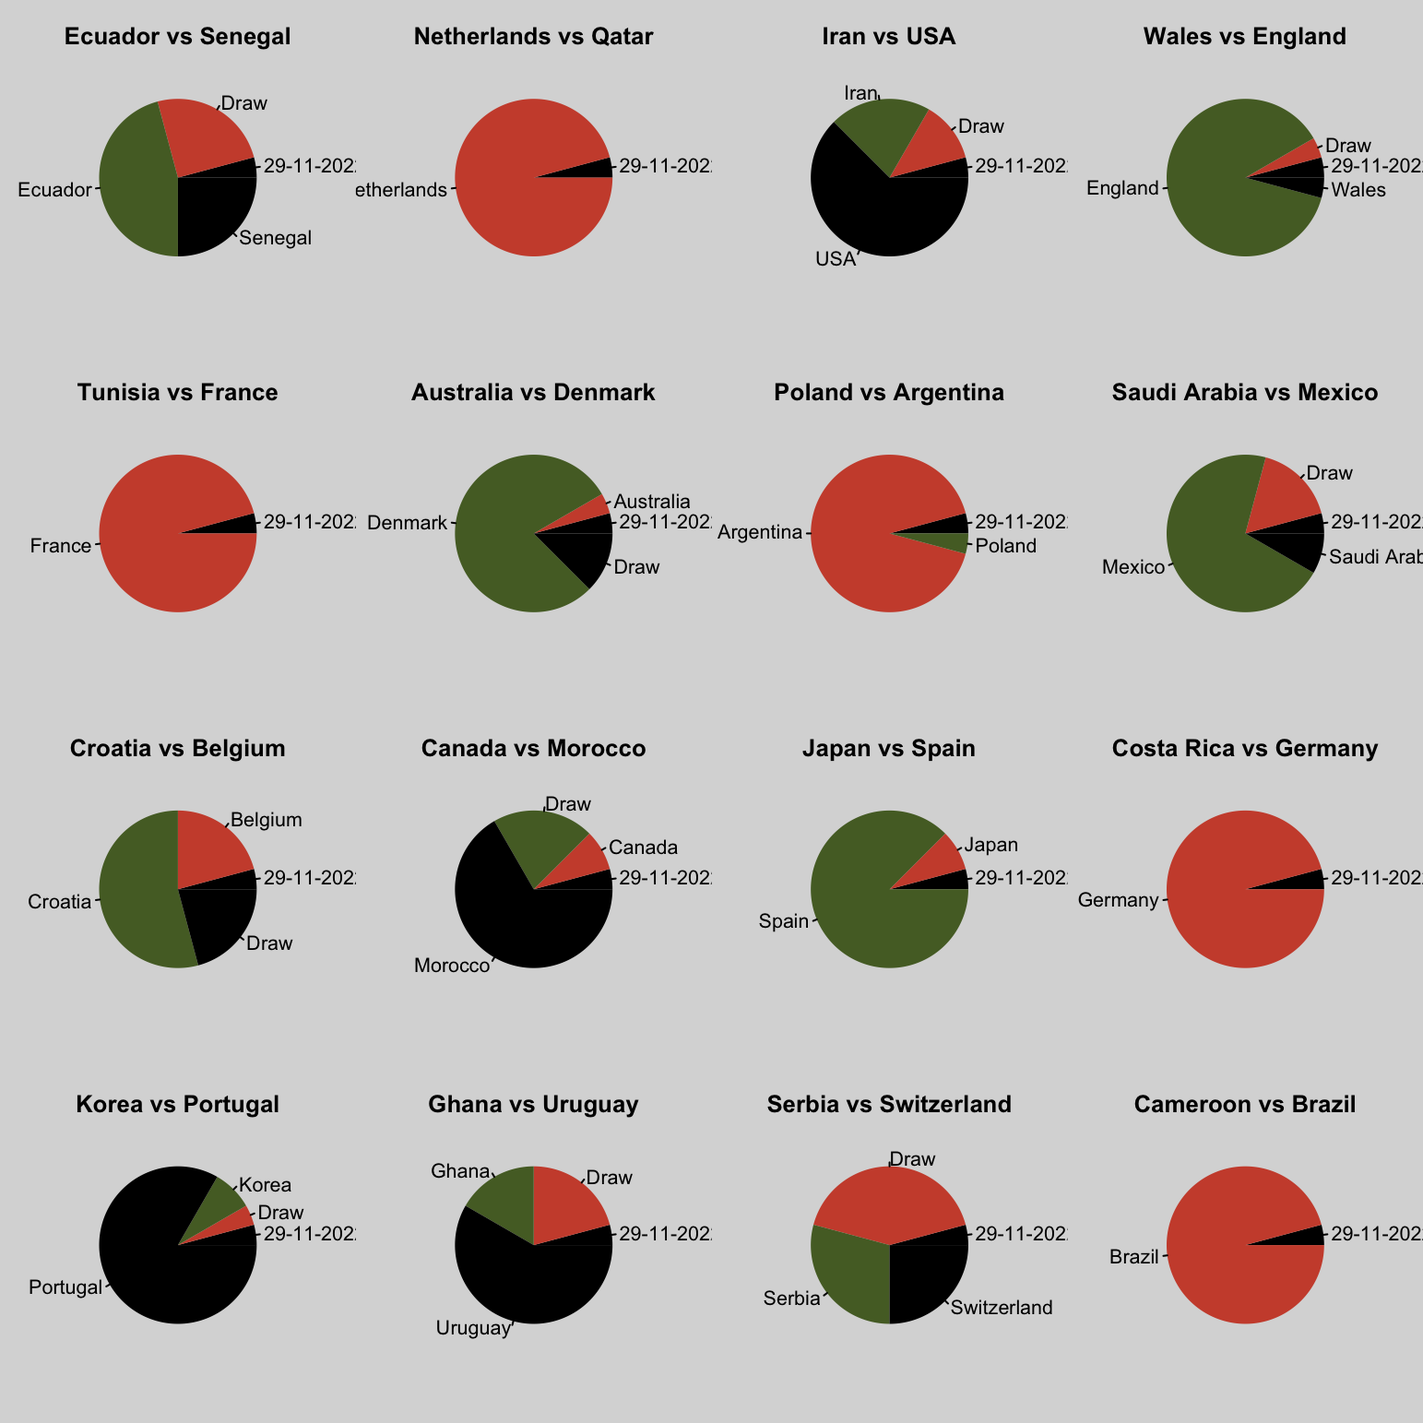
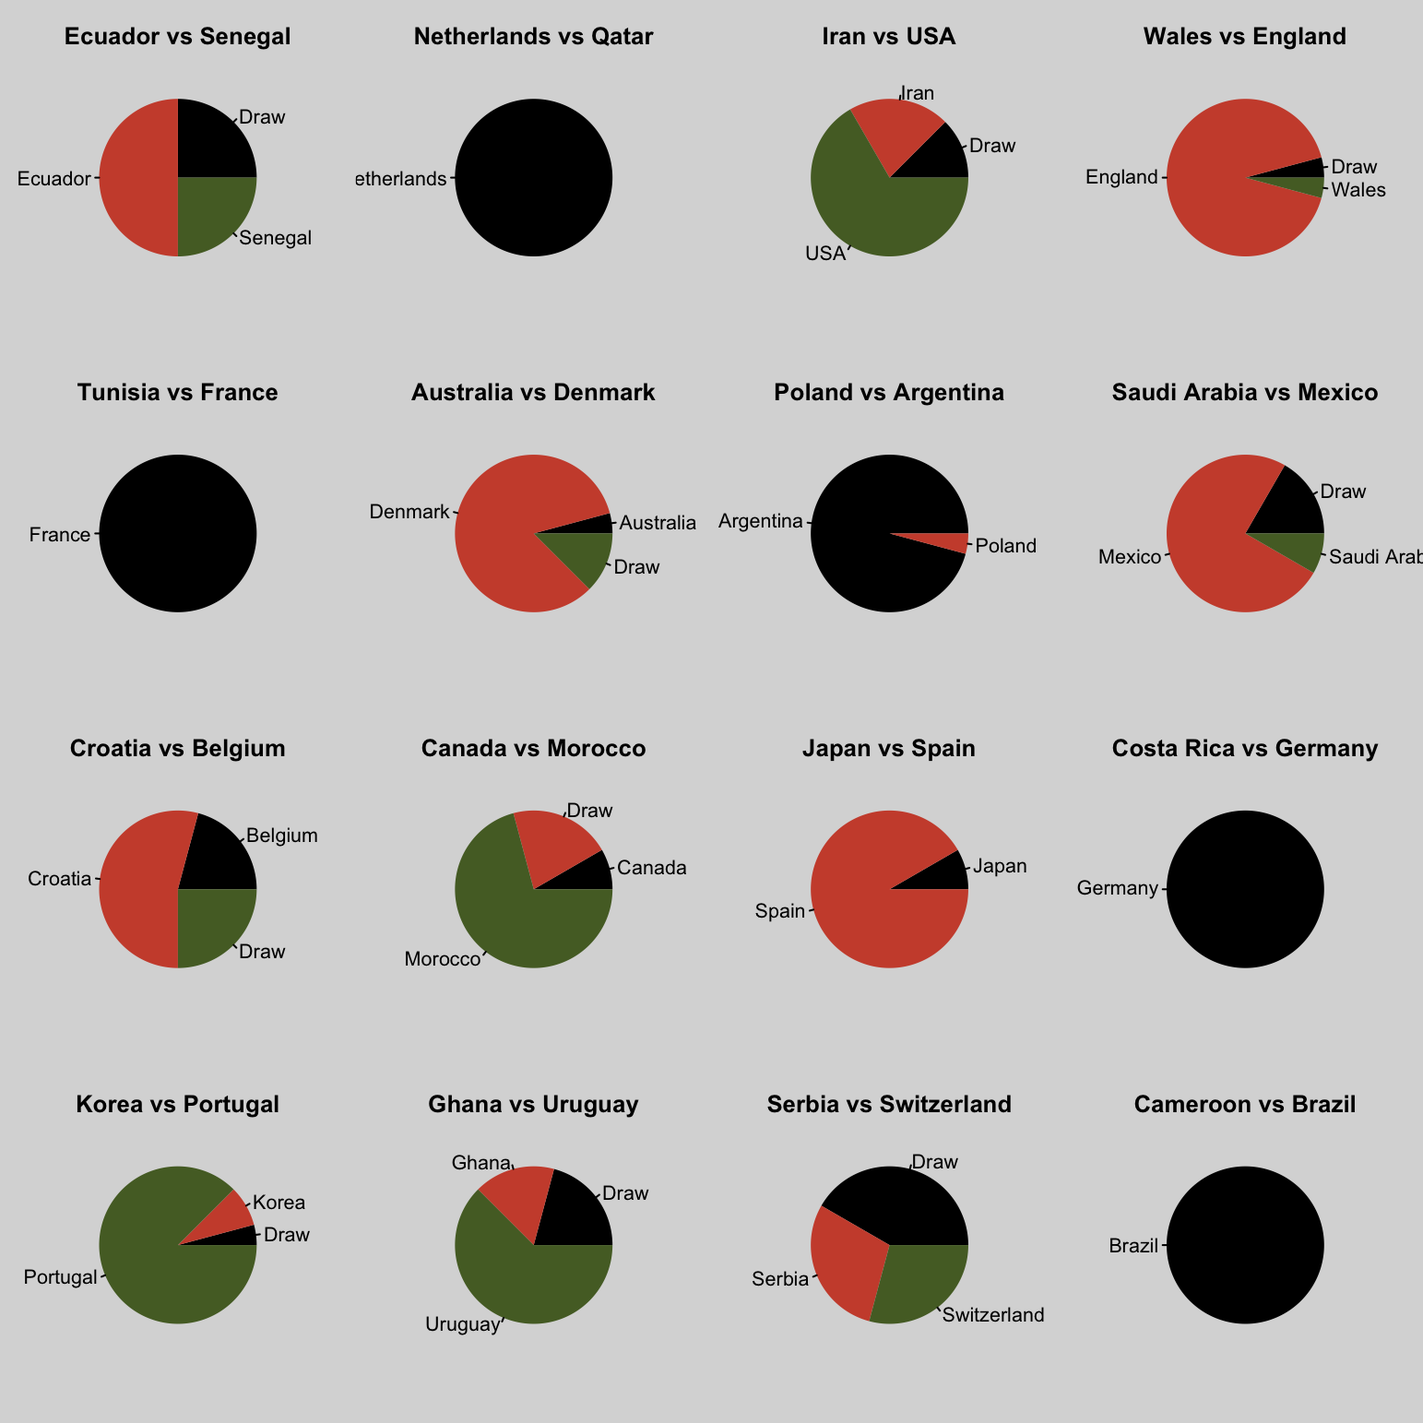
automatic README update

diff --git a/README.md b/README.md
@@ -13,7 +13,7 @@ Este es el repositorio de la quiniela Qatar 2022. Aqui se publicarán las picks 
 
 
 
-Última actualización: Tue 29 Nov 2022 10:34:21 EST.
+Última actualización: Tue 29 Nov 2022 10:44:57 EST.
 
 
 # **Puntuaciones**
@@ -43,32 +43,32 @@ Este es el repositorio de la quiniela Qatar 2022. Aqui se publicarán las picks 
  ## <u>**Picks de la Jornada 3**</u>
  
  
-| numero_participante | Nombre                        | Ecuador vs Senegal   | Netherlands vs Qatar | Iran vs USA          | Wales vs England     | Tunisia vs France    | Australia vs Denmark | Poland vs Argentina  | Saudi Arabia vs Mexico | Croatia vs Belgium   | Canada vs Morocco    | Japan vs Spain       | Costa Rica vs Germany | Korea vs Portugal    | Ghana vs Uruguay     | Serbia vs Switzerland | Cameroon vs Brazil   |
-| ------------------- | ----------------------------- | -------------------- | -------------------- | -------------------- | -------------------- | -------------------- | -------------------- | -------------------- | ---------------------- | -------------------- | -------------------- | -------------------- | --------------------- | -------------------- | -------------------- | --------------------- | -------------------- |
-| 001                 | Jonathan Gallego Rudolf       | Ecuador              | Netherlands          | USA                  | England              | France               | Denmark              | Argentina            | Mexico                 | Draw                 | Morocco              | Spain                | Germany               | Korea                | Uruguay              | Serbia                | Brazil               |
-| 002                 | Poncho                        | Ecuador              | Netherlands          | Iran                 | England              | France               | Denmark              | Argentina            | Mexico                 | Croatia              | Morocco              | Spain                | Germany               | Portugal             | Uruguay              | Draw                  | Brazil               |
-| 003                 | Habib Echanove                | Ecuador              | Netherlands          | Iran                 | England              | France               | Denmark              | Argentina            | Mexico                 | Draw                 | Morocco              | Spain                | Germany               | Portugal             | Draw                 | Draw                  | Brazil               |
-| 004                 | Jalil                         | Senegal              | Netherlands          | Iran                 | England              | France               | Draw                 | Argentina            | Saudi Arabia           | Belgium              | Draw                 | Spain                | Germany               | Portugal             | Uruguay              | Serbia                | Brazil               |
-| 005                 | Isra                          | Ecuador              | Netherlands          | USA                  | England              | France               | Denmark              | Argentina            | Mexico                 | Croatia              | Morocco              | Spain                | Germany               | Draw                 | Ghana                | Switzerland           | Brazil               |
-| 006                 | Juan Carlos Avendaño Aguilar | Ecuador              | Netherlands          | USA                  | England              | France               | Denmark              | Argentina            | Mexico                 | Belgium              | Canada               | Spain                | Germany               | Portugal             | Uruguay              | Switzerland           | Brazil               |
-| 007                 | Claudio                       | Draw                 | Netherlands          | USA                  | England              | France               | Denmark              | Argentina            | Mexico                 | Draw                 | Morocco              | Spain                | Germany               | Portugal             | Ghana                | Draw                  | Brazil               |
-| 008                 | Héctor Zepeda Reyes          | Senegal              | Netherlands          | USA                  | England              | France               | Denmark              | Argentina            | Mexico                 | Croatia              | Morocco              | Spain                | Germany               | Portugal             | Ghana                | Serbia                | Brazil               |
-| 009                 | Luis Temo Marquez             | Draw                 | Netherlands          | USA                  | England              | France               | Denmark              | Argentina            | Mexico                 | Croatia              | Morocco              | Spain                | Germany               | Korea                | Uruguay              | Draw                  | Brazil               |
-| 010                 | Fosi                          | Draw                 | Netherlands          | USA                  | England              | France               | Denmark              | Argentina            | Mexico                 | Belgium              | Canada               | Spain                | Germany               | Portugal             | Uruguay              | Switzerland           | Brazil               |
-| 011                 | Jacob                         | Senegal              | Netherlands          | USA                  | Draw                 | France               | Denmark              | Poland               | Mexico                 | Croatia              | Morocco              | Japan                | Germany               | Portugal             | Uruguay              | Switzerland           | Brazil               |
-| 012                 | Ibrahim T                     | Ecuador              | Netherlands          | USA                  | England              | France               | Draw                 | Argentina            | Mexico                 | Croatia              | Draw                 | Japan                | Germany               | Portugal             | Uruguay              | Draw                  | Brazil               |
-| 013                 | Ruben                         | Draw                 | Netherlands          | USA                  | England              | France               | Denmark              | Argentina            | Draw                   | Croatia              | Morocco              | Spain                | Germany               | Portugal             | Uruguay              | Serbia                | Brazil               |
-| 014                 | Valentin                      | Ecuador              | Netherlands          | USA                  | England              | France               | Denmark              | Argentina            | Mexico                 | Draw                 | Morocco              | Spain                | Germany               | Portugal             | Uruguay              | Draw                  | Brazil               |
-| 015                 | Daniel Jimenez                | Senegal              | Netherlands          | USA                  | England              | France               | Denmark              | Argentina            | Mexico                 | Belgium              | Draw                 | Spain                | Germany               | Portugal             | Draw                 | Serbia                | Brazil               |
-| 016                 | Ernie                         | Draw                 | Netherlands          | USA                  | England              | France               | Denmark              | Argentina            | Mexico                 | Croatia              | Draw                 | Spain                | Germany               | Portugal             | Uruguay              | Draw                  | Brazil               |
-| 017                 | Bobacao                       | Ecuador              | Netherlands          | USA                  | England              | France               | Denmark              | Argentina            | Draw                   | Croatia              | Morocco              | Spain                | Germany               | Portugal             | Ghana                | Switzerland           | Brazil               |
-| 018                 | Eduardo Rafael Palacios Rejon | Ecuador              | Netherlands          | Iran                 | England              | France               | Draw                 | Argentina            | Mexico                 | Croatia              | Morocco              | Spain                | Germany               | Portugal             | Uruguay              | Switzerland           | Brazil               |
-| 019                 | Diego Angeles-Valdez          | Ecuador              | Netherlands          | Draw                 | England              | France               | Australia            | Argentina            | Saudi Arabia           | Draw                 | Morocco              | Spain                | Germany               | Portugal             | Draw                 | Draw                  | Brazil               |
-| 020                 | Luis Llamas                   | Draw                 | Netherlands          | Draw                 | England              | France               | Denmark              | Argentina            | Mexico                 | Croatia              | Morocco              | Spain                | Germany               | Portugal             | Uruguay              | Draw                  | Brazil               |
-| 021                 | German Jair                   | Ecuador              | Netherlands          | Draw                 | England              | France               | Denmark              | Argentina            | Mexico                 | Croatia              | Morocco              | Spain                | Germany               | Portugal             | Uruguay              | Draw                  | Brazil               |
-| 022                 | Colin                         | 29-11-2022; 10.10.16 | 29-11-2022; 10.10.16 | 29-11-2022; 10.10.16 | 29-11-2022; 10.10.16 | 29-11-2022; 10.10.16 | 29-11-2022; 10.10.16 | 29-11-2022; 10.10.16 | 29-11-2022; 10.10.16   | 29-11-2022; 10.10.16 | 29-11-2022; 10.10.16 | 29-11-2022; 10.10.16 | 29-11-2022; 10.10.16  | 29-11-2022; 10.10.16 | 29-11-2022; 10.10.16 | 29-11-2022; 10.10.16  | 29-11-2022; 10.10.16 |
-| 023                 | Adam                          | Senegal              | Netherlands          | USA                  | Wales                | France               | Denmark              | Argentina            | Draw                   | Belgium              | Morocco              | Spain                | Germany               | Portugal             | Draw                 | Serbia                | Brazil               |
-| 024                 | Ahmed Felfel                  | Senegal              | Netherlands          | Iran                 | England              | France               | Denmark              | Argentina            | Draw                   | Croatia              | Draw                 | Spain                | Germany               | Portugal             | Draw                 | Serbia                | Brazil               |
+| numero_participante | Nombre                        | Ecuador vs Senegal | Netherlands vs Qatar | Iran vs USA | Wales vs England | Tunisia vs France | Australia vs Denmark | Poland vs Argentina | Saudi Arabia vs Mexico | Croatia vs Belgium | Canada vs Morocco | Japan vs Spain | Costa Rica vs Germany | Korea vs Portugal | Ghana vs Uruguay | Serbia vs Switzerland | Cameroon vs Brazil |
+| ------------------- | ----------------------------- | ------------------ | -------------------- | ----------- | ---------------- | ----------------- | -------------------- | ------------------- | ---------------------- | ------------------ | ----------------- | -------------- | --------------------- | ----------------- | ---------------- | --------------------- | ------------------ |
+| 001                 | Jonathan Gallego Rudolf       | Ecuador            | Netherlands          | USA         | England          | France            | Denmark              | Argentina           | Mexico                 | Draw               | Morocco           | Spain          | Germany               | Korea             | Uruguay          | Serbia                | Brazil             |
+| 002                 | Poncho                        | Ecuador            | Netherlands          | Iran        | England          | France            | Denmark              | Argentina           | Mexico                 | Croatia            | Morocco           | Spain          | Germany               | Portugal          | Uruguay          | Draw                  | Brazil             |
+| 003                 | Habib Echanove                | Ecuador            | Netherlands          | Iran        | England          | France            | Denmark              | Argentina           | Mexico                 | Draw               | Morocco           | Spain          | Germany               | Portugal          | Draw             | Draw                  | Brazil             |
+| 004                 | Jalil                         | Senegal            | Netherlands          | Iran        | England          | France            | Draw                 | Argentina           | Saudi Arabia           | Belgium            | Draw              | Spain          | Germany               | Portugal          | Uruguay          | Serbia                | Brazil             |
+| 005                 | Isra                          | Ecuador            | Netherlands          | USA         | England          | France            | Denmark              | Argentina           | Mexico                 | Croatia            | Morocco           | Spain          | Germany               | Draw              | Ghana            | Switzerland           | Brazil             |
+| 006                 | Juan Carlos Avendaño Aguilar | Ecuador            | Netherlands          | USA         | England          | France            | Denmark              | Argentina           | Mexico                 | Belgium            | Canada            | Spain          | Germany               | Portugal          | Uruguay          | Switzerland           | Brazil             |
+| 007                 | Claudio                       | Draw               | Netherlands          | USA         | England          | France            | Denmark              | Argentina           | Mexico                 | Draw               | Morocco           | Spain          | Germany               | Portugal          | Ghana            | Draw                  | Brazil             |
+| 008                 | Héctor Zepeda Reyes          | Senegal            | Netherlands          | USA         | England          | France            | Denmark              | Argentina           | Mexico                 | Croatia            | Morocco           | Spain          | Germany               | Portugal          | Ghana            | Serbia                | Brazil             |
+| 009                 | Luis Temo Marquez             | Draw               | Netherlands          | USA         | England          | France            | Denmark              | Argentina           | Mexico                 | Croatia            | Morocco           | Spain          | Germany               | Korea             | Uruguay          | Draw                  | Brazil             |
+| 010                 | Fosi                          | Draw               | Netherlands          | USA         | England          | France            | Denmark              | Argentina           | Mexico                 | Belgium            | Canada            | Spain          | Germany               | Portugal          | Uruguay          | Switzerland           | Brazil             |
+| 011                 | Jacob                         | Senegal            | Netherlands          | USA         | Draw             | France            | Denmark              | Poland              | Mexico                 | Croatia            | Morocco           | Japan          | Germany               | Portugal          | Uruguay          | Switzerland           | Brazil             |
+| 012                 | Ibrahim T                     | Ecuador            | Netherlands          | USA         | England          | France            | Draw                 | Argentina           | Mexico                 | Croatia            | Draw              | Japan          | Germany               | Portugal          | Uruguay          | Draw                  | Brazil             |
+| 013                 | Ruben                         | Draw               | Netherlands          | USA         | England          | France            | Denmark              | Argentina           | Draw                   | Croatia            | Morocco           | Spain          | Germany               | Portugal          | Uruguay          | Serbia                | Brazil             |
+| 014                 | Valentin                      | Ecuador            | Netherlands          | USA         | England          | France            | Denmark              | Argentina           | Mexico                 | Draw               | Morocco           | Spain          | Germany               | Portugal          | Uruguay          | Draw                  | Brazil             |
+| 015                 | Daniel Jimenez                | Senegal            | Netherlands          | USA         | England          | France            | Denmark              | Argentina           | Mexico                 | Belgium            | Draw              | Spain          | Germany               | Portugal          | Draw             | Serbia                | Brazil             |
+| 016                 | Ernie                         | Draw               | Netherlands          | USA         | England          | France            | Denmark              | Argentina           | Mexico                 | Croatia            | Draw              | Spain          | Germany               | Portugal          | Uruguay          | Draw                  | Brazil             |
+| 017                 | Bobacao                       | Ecuador            | Netherlands          | USA         | England          | France            | Denmark              | Argentina           | Draw                   | Croatia            | Morocco           | Spain          | Germany               | Portugal          | Ghana            | Switzerland           | Brazil             |
+| 018                 | Eduardo Rafael Palacios Rejon | Ecuador            | Netherlands          | Iran        | England          | France            | Draw                 | Argentina           | Mexico                 | Croatia            | Morocco           | Spain          | Germany               | Portugal          | Uruguay          | Switzerland           | Brazil             |
+| 019                 | Diego Angeles-Valdez          | Ecuador            | Netherlands          | Draw        | England          | France            | Australia            | Argentina           | Saudi Arabia           | Draw               | Morocco           | Spain          | Germany               | Portugal          | Draw             | Draw                  | Brazil             |
+| 020                 | Luis Llamas                   | Draw               | Netherlands          | Draw        | England          | France            | Denmark              | Argentina           | Mexico                 | Croatia            | Morocco           | Spain          | Germany               | Portugal          | Uruguay          | Draw                  | Brazil             |
+| 021                 | German Jair                   | Ecuador            | Netherlands          | Draw        | England          | France            | Denmark              | Argentina           | Mexico                 | Croatia            | Morocco           | Spain          | Germany               | Portugal          | Uruguay          | Draw                  | Brazil             |
+| 022                 | Colin                         | Ecuador            | Netherlands          | USA         | England          | France            | Denmark              | Argentina           | Mexico                 | Draw               | Morocco           | Spain          | Germany               | Portugal          | Uruguay          | Switzerland           | Brazil             |
+| 023                 | Adam                          | Senegal            | Netherlands          | USA         | Wales            | France            | Denmark              | Argentina           | Draw                   | Belgium            | Morocco           | Spain          | Germany               | Portugal          | Draw             | Serbia                | Brazil             |
+| 024                 | Ahmed Felfel                  | Senegal            | Netherlands          | Iran        | England          | France            | Denmark              | Argentina           | Draw                   | Croatia            | Draw              | Spain          | Germany               | Portugal          | Draw             | Serbia                | Brazil             |
 ### Gráficos
 
 ![](media/picks_GS3.png )
@@ -84,11 +84,11 @@ Este es el top 5 de jugadores que más cambiarán su posición en la tabla tras 
 
 | numero_participante | Nombre               |
 | ------------------- | -------------------- |
-| 022                 | Colin                |
-| 011                 | Jacob                |
 | 004                 | Jalil                |
+| 011                 | Jacob                |
 | 019                 | Diego Angeles-Valdez |
 | 023                 | Adam                 |
+| 024                 | Ahmed Felfel         |
  --- 
 
  ## <u>**Picks de la Jornada 2**</u>
